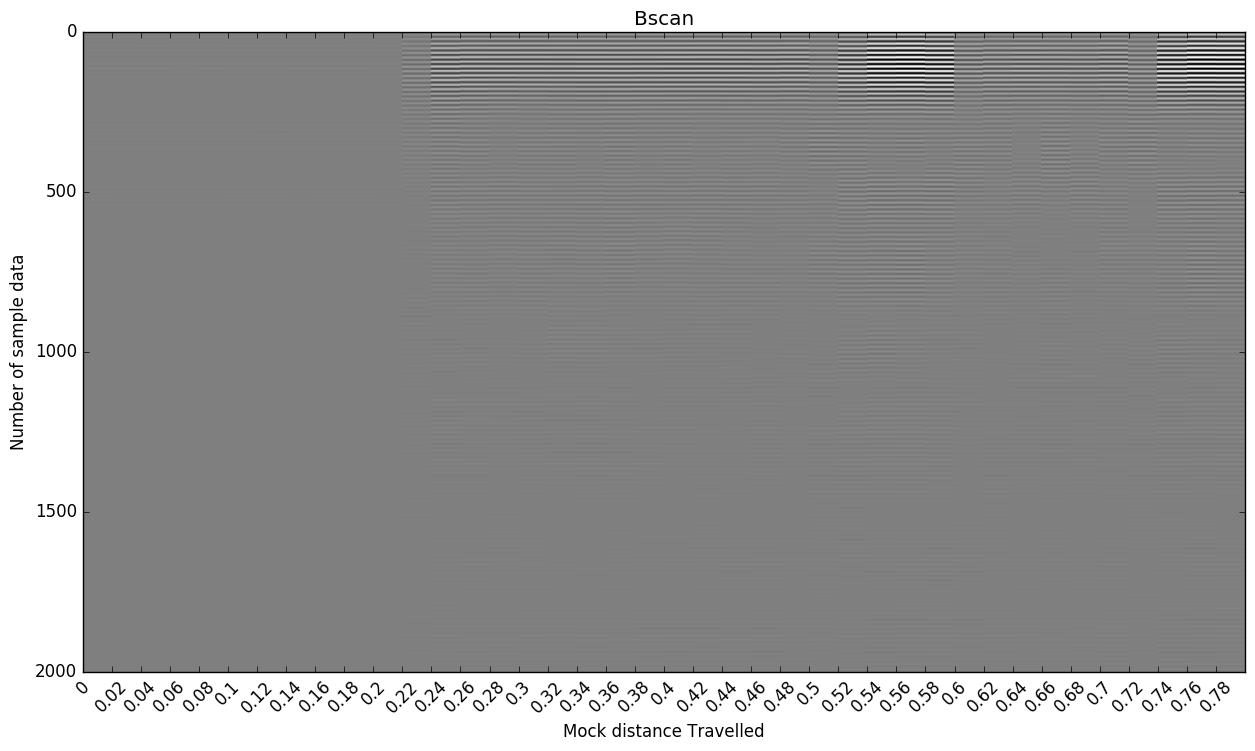
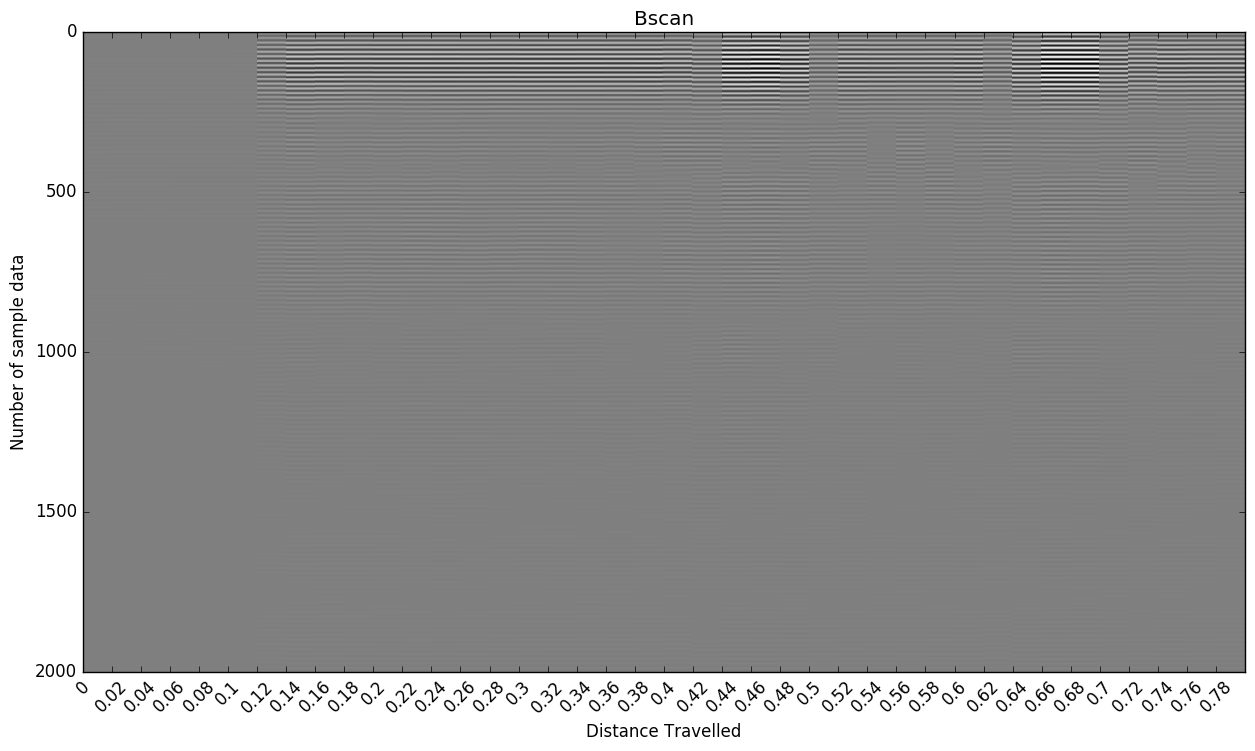
Updating Bscan data

Changed region(s): [[0.1865, 0.0306, 0.9944, 0.1531], [0.4351, 0.9494, 0.6215, 0.98]]

diff --git a/scripts/graphBscan.py b/scripts/graphBscan.py
@@ -28,7 +28,7 @@ def callback(data):
     # Plotting raw signal
     if i==0:
         plt.figure(figsize=(15,8))
-        wb = Workbook()
+        # wb = Workbook()
         # sheet1 = wb.add_sheet('Sheet 1')
         # sheet1.write(0,0, 'Timestamp')
         # sheet1.write(0,1, 'Distance')
@@ -38,7 +38,7 @@ def callback(data):
     plt.pcolormesh(z,cmap = 'gist_gray',vmin=y_min, vmax=y_max)
     plt.title('Bscan')
     plt.ylabel('Number of sample data')
-    plt.xlabel('Mock distance Travelled')
+    plt.xlabel('Distance Travelled')
     plt.xticks(np.arange(len(dist)),dist,rotation = 45)
     plt.draw() 
     plt.pause(0.0000001)
@@ -53,7 +53,7 @@ def callback(data):
     i = i + 0.02
     if len(z)==40:
         i = "shutdown"
-        plt.savefig('src/walabot/data/dataBscan/WalabotBscanFirst.png',bbox_inches='tight')
+        plt.savefig('src/walabot/data/dataBscan/WalabotBscanThird.png',bbox_inches='tight')
         rospy.signal_shutdown(i)
 if __name__ == '__main__':
     rospy.init_node('processBscan', anonymous=True)

diff --git a/scripts/walabotRawSignal.py b/scripts/walabotRawSignal.py
@@ -169,16 +169,7 @@ def DataCollect():
     wlbt.Trigger()
     targets = wlbt.GetSignal((pair[pair3]))
     background9 = targets[0]
-    wlbt.Trigger()        # if i == 0:
-        #     wb = Workbook()
-        #     sheet1 = wb.add_sheet('Sheet 1')
-        #     # sheet1.write(0,0, 'Number of Scan')
-        #     sheet1.write(0,1, 'Depth')
-        #     # sheet1.write(0,1, 'Signal Amplitude')
-        #     # sheet1.write(0,2, 'Time (ns)')
-        #     # sheet1.write(0,3, 'Data Index')
-        #     i = i + 1
-        # sheet1.write(i,0,i)
+    wlbt.Trigger() 
     targets = wlbt.GetSignal((pair[pair3]))
     background10 = targets[0]
     averagebackgroundpair3 = (np.asarray(background1) + np.asarray(background2) + np.asarray(background3) + np.asarray(background4) + np.asarray(background5) + np.asarray(background6) + np.asarray(background7) + np.asarray(background8) + np.asarray(background9) + np.asarray(background10)) /10 
